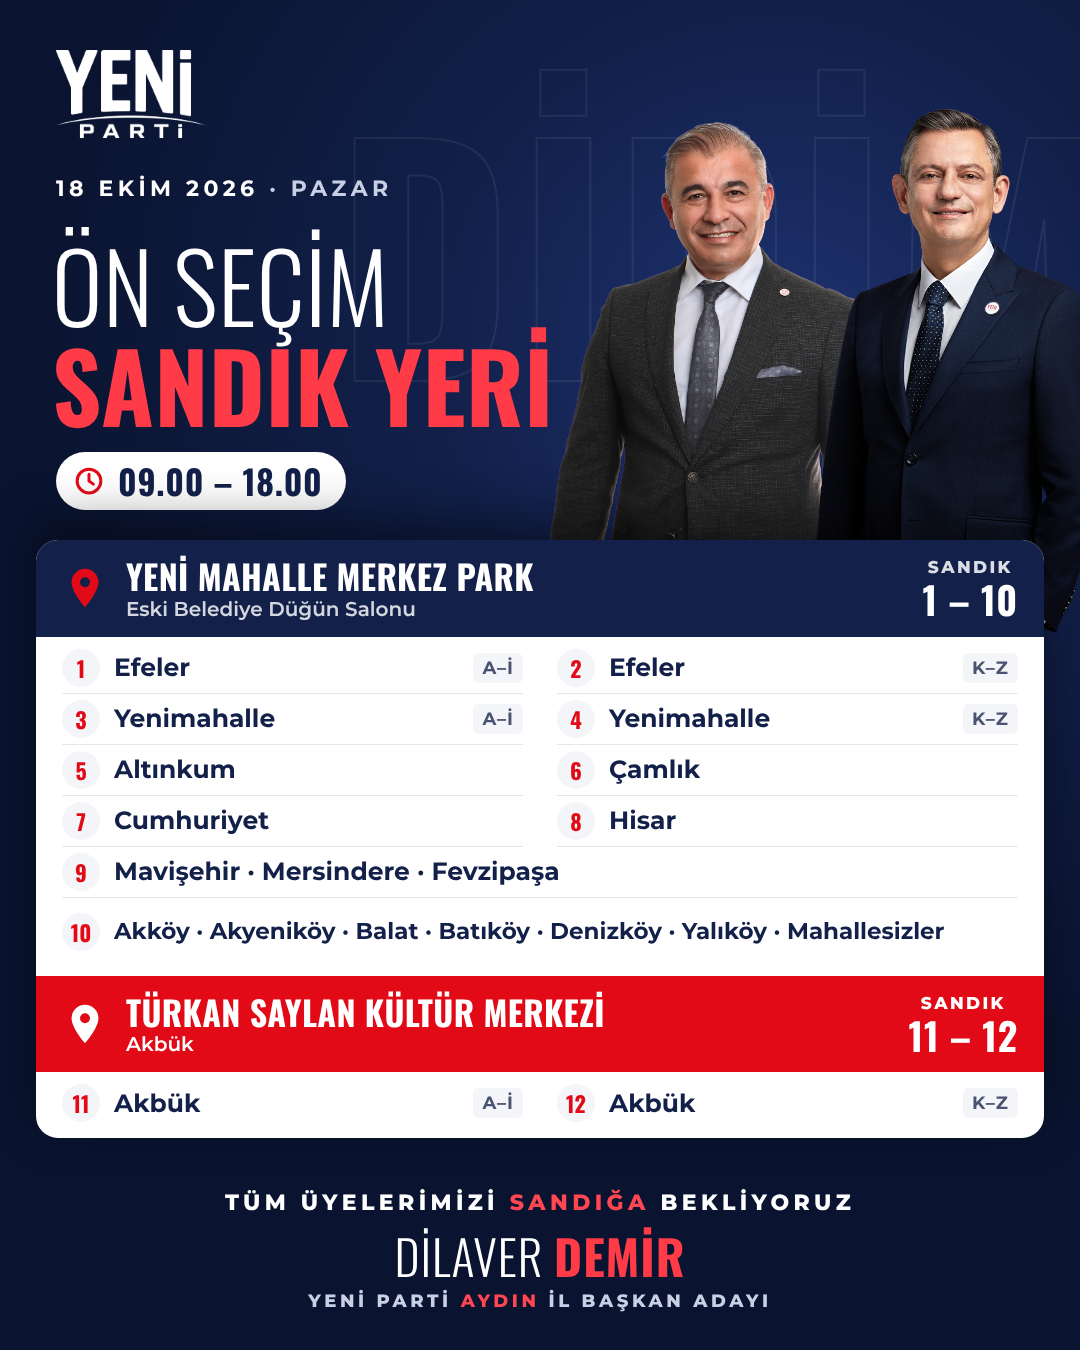
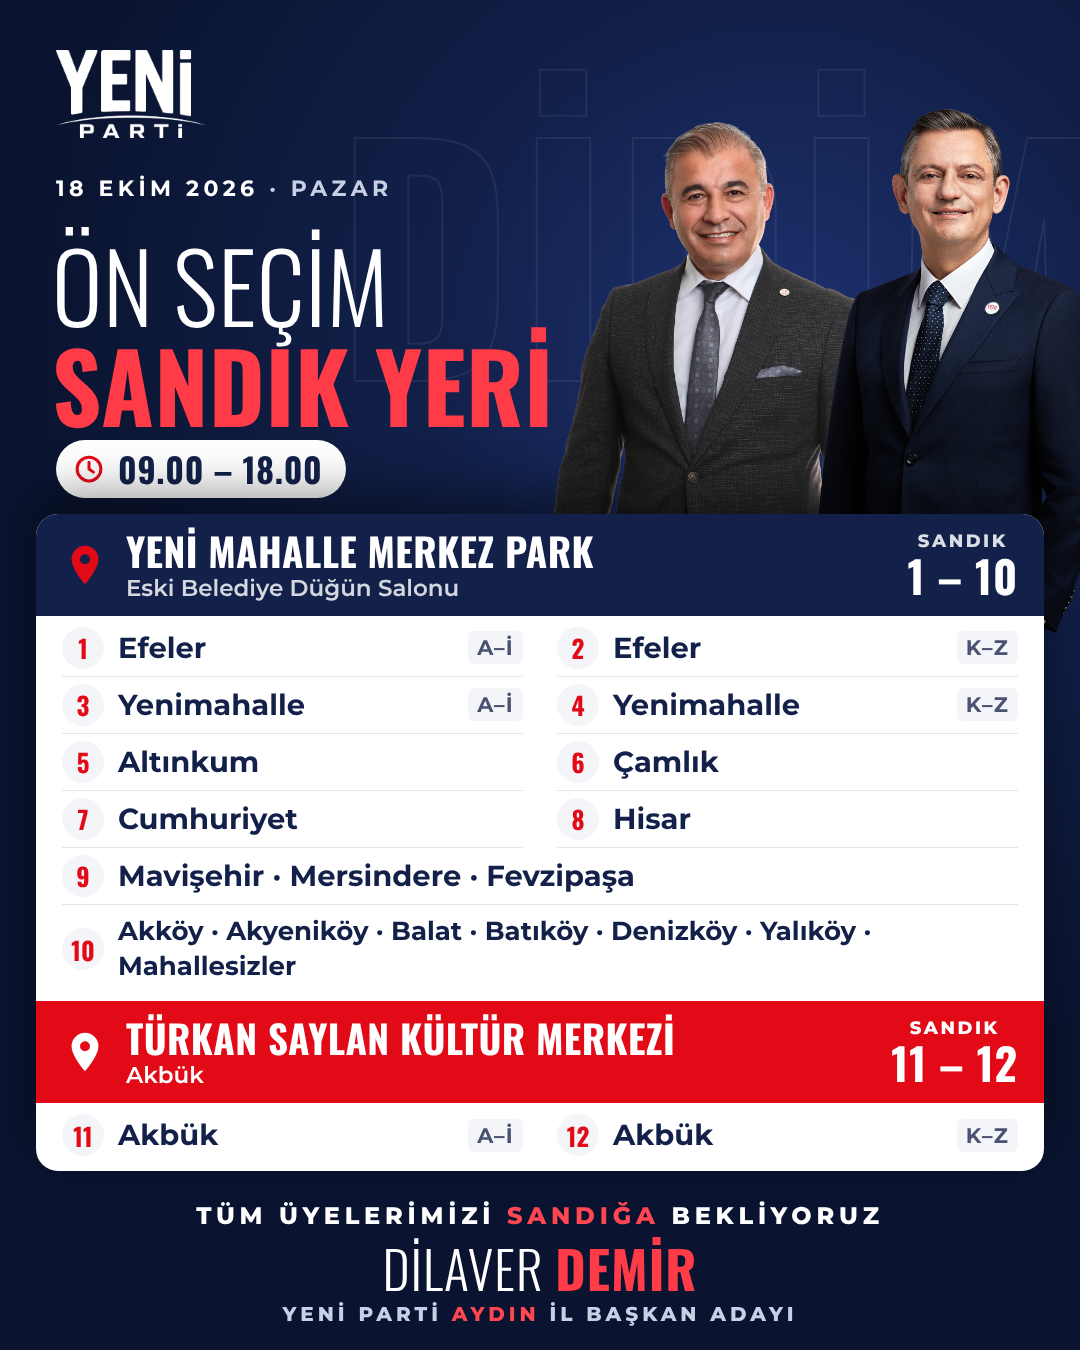
Sandık yerleri: yazılar büyütüldü, 1350x1080 yatay versiyon
Claude-Session: https://claude.ai/code/session_01SatttGbgBLoCnk9KGLypWv

Changed region(s): [[0.0306, 0.3111, 0.9778, 0.9956]]

diff --git a/tasarim/kisisel/sandik/sandik-yatay.html b/tasarim/kisisel/sandik/sandik-yatay.html
@@ -1,0 +1,131 @@
+<!doctype html><html lang="tr"><meta charset="utf-8">
+<style>
+@font-face{font-family:OL;src:url(../../fontlar-gecici/Oswald-300.ttf)}
+@font-face{font-family:O7;src:url(../../fontlar-gecici/Oswald-700.ttf)}
+@font-face{font-family:M6;src:url(../../fontlar-gecici/Montserrat-600.ttf)}
+@font-face{font-family:M7;src:url(../../fontlar-gecici/Montserrat-700.ttf)}
+@font-face{font-family:M8;src:url(../../fontlar-gecici/Montserrat-800.ttf)}
+:root{--gece:#0A1430;--lacivert:#13214A;--kirmizi:#E30A17;--acik:#F4F5F8;--cizgi:#E3E6EE;--gri:#6B7392}
+html,body{margin:0;width:1350px;height:1080px;overflow:hidden}
+body{position:relative;color:#fff;background:radial-gradient(ellipse 70% 55% at 72% 26%,#1E3270 0%,#12204A 45%,var(--gece) 100%)}
+/* arka planda ince çizgili DİDİM */
+.zemin-yazi{position:absolute;right:-30px;top:96px;font:300px/1 O7;letter-spacing:.02em;color:transparent;-webkit-text-stroke:2px rgba(255,255,255,.07);white-space:nowrap}
+
+.logo{position:absolute;left:56px;top:50px;width:150px}
+.etiket{position:absolute;left:56px;top:178px;font:22px/1 M7;letter-spacing:.2em;color:#C9D0E6}
+.etiket b{color:#fff}
+.b1{position:absolute;left:52px;top:236px;font:96px/1 OL;letter-spacing:.005em}
+.b2{position:absolute;left:52px;top:336px;font:96px/1 O7;color:#FF3B47;letter-spacing:.005em}
+.saat{position:absolute;left:56px;top:440px;display:flex;align-items:center;gap:14px;height:58px;padding:0 24px 0 18px;border-radius:30px;background:#fff;color:var(--lacivert)}
+.saat svg{width:30px;height:30px}
+.saat b{font:34px/1 O7;letter-spacing:.02em}
+
+.kisi{position:absolute}
+.dilaver{left:548px;top:122px;width:338px}
+.ozel{left:812px;top:108px;width:288px}
+
+/* sandık paneli */
+.panel{position:absolute;left:36px;right:36px;top:514px;background:#fff;border-radius:22px;color:var(--lacivert);
+  box-shadow:0 -18px 50px rgba(0,0,0,.45);overflow:hidden}
+.yer{display:flex;align-items:center;gap:18px;padding:16px 26px;background:var(--lacivert);color:#fff}
+.yer.akbuk{background:var(--kirmizi)}
+.yer.akbuk .ad span,.yer.akbuk .no{color:#fff}
+.yer .pin{flex:none;width:46px;height:46px}
+.yer .ad{flex:1;min-width:0}
+.yer .ad b{display:block;font:39px/1.05 O7;letter-spacing:.01em;white-space:nowrap}
+.yer .ad span{display:block;margin-top:6px;font:23px/1 M6;color:rgba(255,255,255,.82)}
+.yer .no{flex:none;text-align:center;font:18px/1 M8;letter-spacing:.14em;color:rgba(255,255,255,.85)}
+.yer .no b{display:block;margin-top:4px;font:44px/1 O7;letter-spacing:.02em;color:#fff}
+
+.izgara{display:grid;grid-template-columns:1fr 1fr;padding:4px 26px 8px;column-gap:34px}
+.satir{display:flex;align-items:center;gap:14px;height:56px;border-bottom:1.5px solid var(--cizgi)}
+.satir i{flex:none;width:42px;height:42px;border-radius:50%;background:var(--acik);color:var(--kirmizi);display:flex;align-items:center;justify-content:center;font:25px/1 O7;font-style:normal}
+.satir .m{font:29px/1.15 M7;white-space:nowrap}
+.satir small{margin-left:auto;font:21px/1 M7;letter-spacing:.06em;color:#4A5272;background:var(--acik);padding:6px 9px;border-radius:6px}
+.genis{grid-column:1/-1}
+.satir.cok{height:auto;min-height:56px;padding:9px 0}
+.satir.cok .m{white-space:normal;font-size:26px;line-height:1.35}
+.izgara .son{border-bottom:0}
+
+.alt{position:absolute;left:0;right:0;bottom:26px;text-align:center}
+.alt .davet{font:24px/1 M8;letter-spacing:.2em;color:#fff}
+.alt .davet em{font-style:normal;color:#FF4651}
+.imza{margin-top:14px;display:flex;justify-content:center;align-items:baseline;gap:14px}
+.imza .ad{font:52px/1 OL;letter-spacing:.02em}
+.imza .ad b{font-family:O7;font-weight:normal;color:#FF3B47}
+.gorev{margin-top:10px;font:20px/1 M8;letter-spacing:.2em;color:#C9D0E6}
+.gorev em{font-style:normal;color:#FF4651}
+
+/* yatay düzen */
+body{background:radial-gradient(ellipse 60% 70% at 24% 72%,#1E3270 0%,#12204A 50%,var(--gece) 100%)}
+.zemin-yazi{right:auto;left:-20px;top:600px;font-size:250px}
+.logo{left:60px;top:52px;width:150px}
+.etiket{left:62px;top:186px}
+.b1{left:58px;top:240px;font-size:100px}
+.b2{left:58px;top:342px;font-size:100px}
+.saat{left:62px;top:466px}
+.dilaver{left:28px;top:590px;width:350px}
+.ozel{left:300px;top:572px;width:292px}
+.panel{left:620px;right:44px;top:44px}
+.izgara{padding:4px 24px 8px;column-gap:26px}
+.yer{padding:16px 24px;gap:16px}
+.yer .ad b{font-size:36px}
+.satir .m{font-size:28px}
+.satir small{font-size:20px}
+.satir.cok .m{font-size:26px}
+.alt{left:620px;right:44px;bottom:96px}
+.satir{height:64px}
+.satir .m{font-size:28px}
+.satir small{white-space:nowrap;font-size:19px}
+.satir.cok{min-height:64px;padding:12px 0}
+.yer{padding:20px 24px}
+.yer.akbuk .ad b{font-size:31px}
+.alt .davet{font-size:22px;letter-spacing:.12em;white-space:nowrap}
+.imza .ad{font-size:56px}
+</style>
+<body>
+<div class="zemin-yazi">DİDİM</div>
+<img class="kisi dilaver" src="dilaver-kesik.png">
+<img class="kisi ozel" src="ozel-kesik.png">
+
+<img class="logo" src="yp-logo-beyaz.png">
+<div class="etiket"><b>18 EKİM 2026</b> · PAZAR</div>
+<div class="b1">ÖN SEÇİM</div>
+<div class="b2">SANDIK YERİ</div>
+<div class="saat"><svg viewBox="0 0 24 24" fill="none" stroke="#E30A17" stroke-width="2.4" stroke-linecap="round"><circle cx="12" cy="12" r="9.5"/><path d="M12 6.5V12l3.5 2.5"/></svg><b>09.00 – 18.00</b></div>
+
+<div class="panel">
+  <div class="yer">
+    <svg class="pin" viewBox="0 0 24 24" fill="#E30A17"><path d="M12 2a7 7 0 0 0-7 7c0 5.2 7 13 7 13s7-7.8 7-13a7 7 0 0 0-7-7zm0 9.6A2.6 2.6 0 1 1 12 6.4a2.6 2.6 0 0 1 0 5.2z"/></svg>
+    <div class="ad"><b>YENİ MAHALLE MERKEZ PARK</b><span>Eski Belediye Düğün Salonu</span></div>
+    <div class="no">SANDIK<b>1 – 10</b></div>
+  </div>
+  <div class="izgara">
+    <div class="satir"><i>1</i><span class="m">Efeler</span><small>A–İ</small></div>
+    <div class="satir"><i>2</i><span class="m">Efeler</span><small>K–Z</small></div>
+    <div class="satir"><i>3</i><span class="m">Yenimahalle</span><small>A–İ</small></div>
+    <div class="satir"><i>4</i><span class="m">Yenimahalle</span><small>K–Z</small></div>
+    <div class="satir"><i>5</i><span class="m">Altınkum</span></div>
+    <div class="satir"><i>6</i><span class="m">Çamlık</span></div>
+    <div class="satir"><i>7</i><span class="m">Cumhuriyet</span></div>
+    <div class="satir"><i>8</i><span class="m">Hisar</span></div>
+    <div class="satir genis"><i>9</i><span class="m">Mavişehir · Mersindere · Fevzipaşa</span></div>
+    <div class="satir genis cok son"><i>10</i><span class="m">Akköy · Akyeniköy · Balat · Batıköy · Denizköy · Yalıköy · Mahallesizler</span></div>
+  </div>
+  <div class="yer akbuk">
+    <svg class="pin" viewBox="0 0 24 24" fill="#fff"><path d="M12 2a7 7 0 0 0-7 7c0 5.2 7 13 7 13s7-7.8 7-13a7 7 0 0 0-7-7zm0 9.6A2.6 2.6 0 1 1 12 6.4a2.6 2.6 0 0 1 0 5.2z"/></svg>
+    <div class="ad"><b>TÜRKAN SAYLAN KÜLTÜR MERKEZİ</b><span>Akbük</span></div>
+    <div class="no">SANDIK<b>11 – 12</b></div>
+  </div>
+  <div class="izgara">
+    <div class="satir son"><i>11</i><span class="m">Akbük</span><small>A–İ</small></div>
+    <div class="satir son"><i>12</i><span class="m">Akbük</span><small>K–Z</small></div>
+  </div>
+</div>
+
+<div class="alt">
+  <div class="davet">TÜM ÜYELERİMİZİ <em>SANDIĞA</em> BEKLİYORUZ</div>
+  <div class="imza"><span class="ad">DİLAVER <b>DEMİR</b></span></div>
+  <div class="gorev">YENİ PARTİ <em>AYDIN</em> İL BAŞKAN ADAYI</div>
+</div>
+</body></html>

diff --git a/tasarim/kisisel/sandik/sandik.html b/tasarim/kisisel/sandik/sandik.html
@@ -16,7 +16,7 @@ body{position:relative;color:#fff;background:radial-gradient(ellipse 70% 55% at 
 .etiket b{color:#fff}
 .b1{position:absolute;left:52px;top:236px;font:96px/1 OL;letter-spacing:.005em}
 .b2{position:absolute;left:52px;top:336px;font:96px/1 O7;color:#FF3B47;letter-spacing:.005em}
-.saat{position:absolute;left:56px;top:452px;display:flex;align-items:center;gap:14px;height:58px;padding:0 24px 0 18px;border-radius:30px;background:#fff;color:var(--lacivert)}
+.saat{position:absolute;left:56px;top:440px;display:flex;align-items:center;gap:14px;height:58px;padding:0 24px 0 18px;border-radius:30px;background:#fff;color:var(--lacivert)}
 .saat svg{width:30px;height:30px}
 .saat b{font:34px/1 O7;letter-spacing:.02em}
 
@@ -25,35 +25,35 @@ body{position:relative;color:#fff;background:radial-gradient(ellipse 70% 55% at 
 .ozel{left:812px;top:108px;width:288px}
 
 /* sandık paneli */
-.panel{position:absolute;left:36px;right:36px;top:540px;background:#fff;border-radius:22px;color:var(--lacivert);
+.panel{position:absolute;left:36px;right:36px;top:514px;background:#fff;border-radius:22px;color:var(--lacivert);
   box-shadow:0 -18px 50px rgba(0,0,0,.45);overflow:hidden}
-.yer{display:flex;align-items:center;gap:18px;padding:18px 26px;background:var(--lacivert);color:#fff}
+.yer{display:flex;align-items:center;gap:18px;padding:16px 26px;background:var(--lacivert);color:#fff}
 .yer.akbuk{background:var(--kirmizi)}
 .yer.akbuk .ad span,.yer.akbuk .no{color:#fff}
 .yer .pin{flex:none;width:46px;height:46px}
 .yer .ad{flex:1;min-width:0}
-.yer .ad b{display:block;font:34px/1.05 O7;letter-spacing:.01em;white-space:nowrap}
-.yer .ad span{display:block;margin-top:5px;font:20px/1 M6;color:rgba(255,255,255,.82)}
-.yer .no{flex:none;text-align:center;font:17px/1 M8;letter-spacing:.14em;color:rgba(255,255,255,.85)}
-.yer .no b{display:block;margin-top:4px;font:38px/1 O7;letter-spacing:.02em;color:#fff}
+.yer .ad b{display:block;font:39px/1.05 O7;letter-spacing:.01em;white-space:nowrap}
+.yer .ad span{display:block;margin-top:6px;font:23px/1 M6;color:rgba(255,255,255,.82)}
+.yer .no{flex:none;text-align:center;font:18px/1 M8;letter-spacing:.14em;color:rgba(255,255,255,.85)}
+.yer .no b{display:block;margin-top:4px;font:44px/1 O7;letter-spacing:.02em;color:#fff}
 
-.izgara{display:grid;grid-template-columns:1fr 1fr;padding:6px 26px 10px;column-gap:34px}
-.satir{display:flex;align-items:center;gap:14px;height:50px;border-bottom:1.5px solid var(--cizgi)}
-.satir i{flex:none;width:38px;height:38px;border-radius:50%;background:var(--acik);color:var(--kirmizi);display:flex;align-items:center;justify-content:center;font:22px/1 O7;font-style:normal}
-.satir .m{font:25px/1.15 M7;white-space:nowrap}
-.satir small{margin-left:auto;font:18px/1 M7;letter-spacing:.06em;color:#4A5272;background:var(--acik);padding:6px 9px;border-radius:6px}
+.izgara{display:grid;grid-template-columns:1fr 1fr;padding:4px 26px 8px;column-gap:34px}
+.satir{display:flex;align-items:center;gap:14px;height:56px;border-bottom:1.5px solid var(--cizgi)}
+.satir i{flex:none;width:42px;height:42px;border-radius:50%;background:var(--acik);color:var(--kirmizi);display:flex;align-items:center;justify-content:center;font:25px/1 O7;font-style:normal}
+.satir .m{font:29px/1.15 M7;white-space:nowrap}
+.satir small{margin-left:auto;font:21px/1 M7;letter-spacing:.06em;color:#4A5272;background:var(--acik);padding:6px 9px;border-radius:6px}
 .genis{grid-column:1/-1}
-.satir.cok{height:auto;min-height:52px;padding:8px 0}
-.satir.cok .m{white-space:normal;font-size:23px;line-height:1.35}
+.satir.cok{height:auto;min-height:56px;padding:9px 0}
+.satir.cok .m{white-space:normal;font-size:26px;line-height:1.35}
 .izgara .son{border-bottom:0}
 
-.alt{position:absolute;left:0;right:0;bottom:40px;text-align:center}
-.alt .davet{font:22px/1 M8;letter-spacing:.2em;color:#fff}
+.alt{position:absolute;left:0;right:0;bottom:26px;text-align:center}
+.alt .davet{font:24px/1 M8;letter-spacing:.2em;color:#fff}
 .alt .davet em{font-style:normal;color:#FF4651}
-.imza{margin-top:18px;display:flex;justify-content:center;align-items:baseline;gap:14px}
-.imza .ad{font:48px/1 OL;letter-spacing:.02em}
+.imza{margin-top:14px;display:flex;justify-content:center;align-items:baseline;gap:14px}
+.imza .ad{font:52px/1 OL;letter-spacing:.02em}
 .imza .ad b{font-family:O7;font-weight:normal;color:#FF3B47}
-.gorev{margin-top:12px;font:18px/1 M8;letter-spacing:.2em;color:#C9D0E6}
+.gorev{margin-top:10px;font:20px/1 M8;letter-spacing:.2em;color:#C9D0E6}
 .gorev em{font-style:normal;color:#FF4651}
 </style>
 <body>
